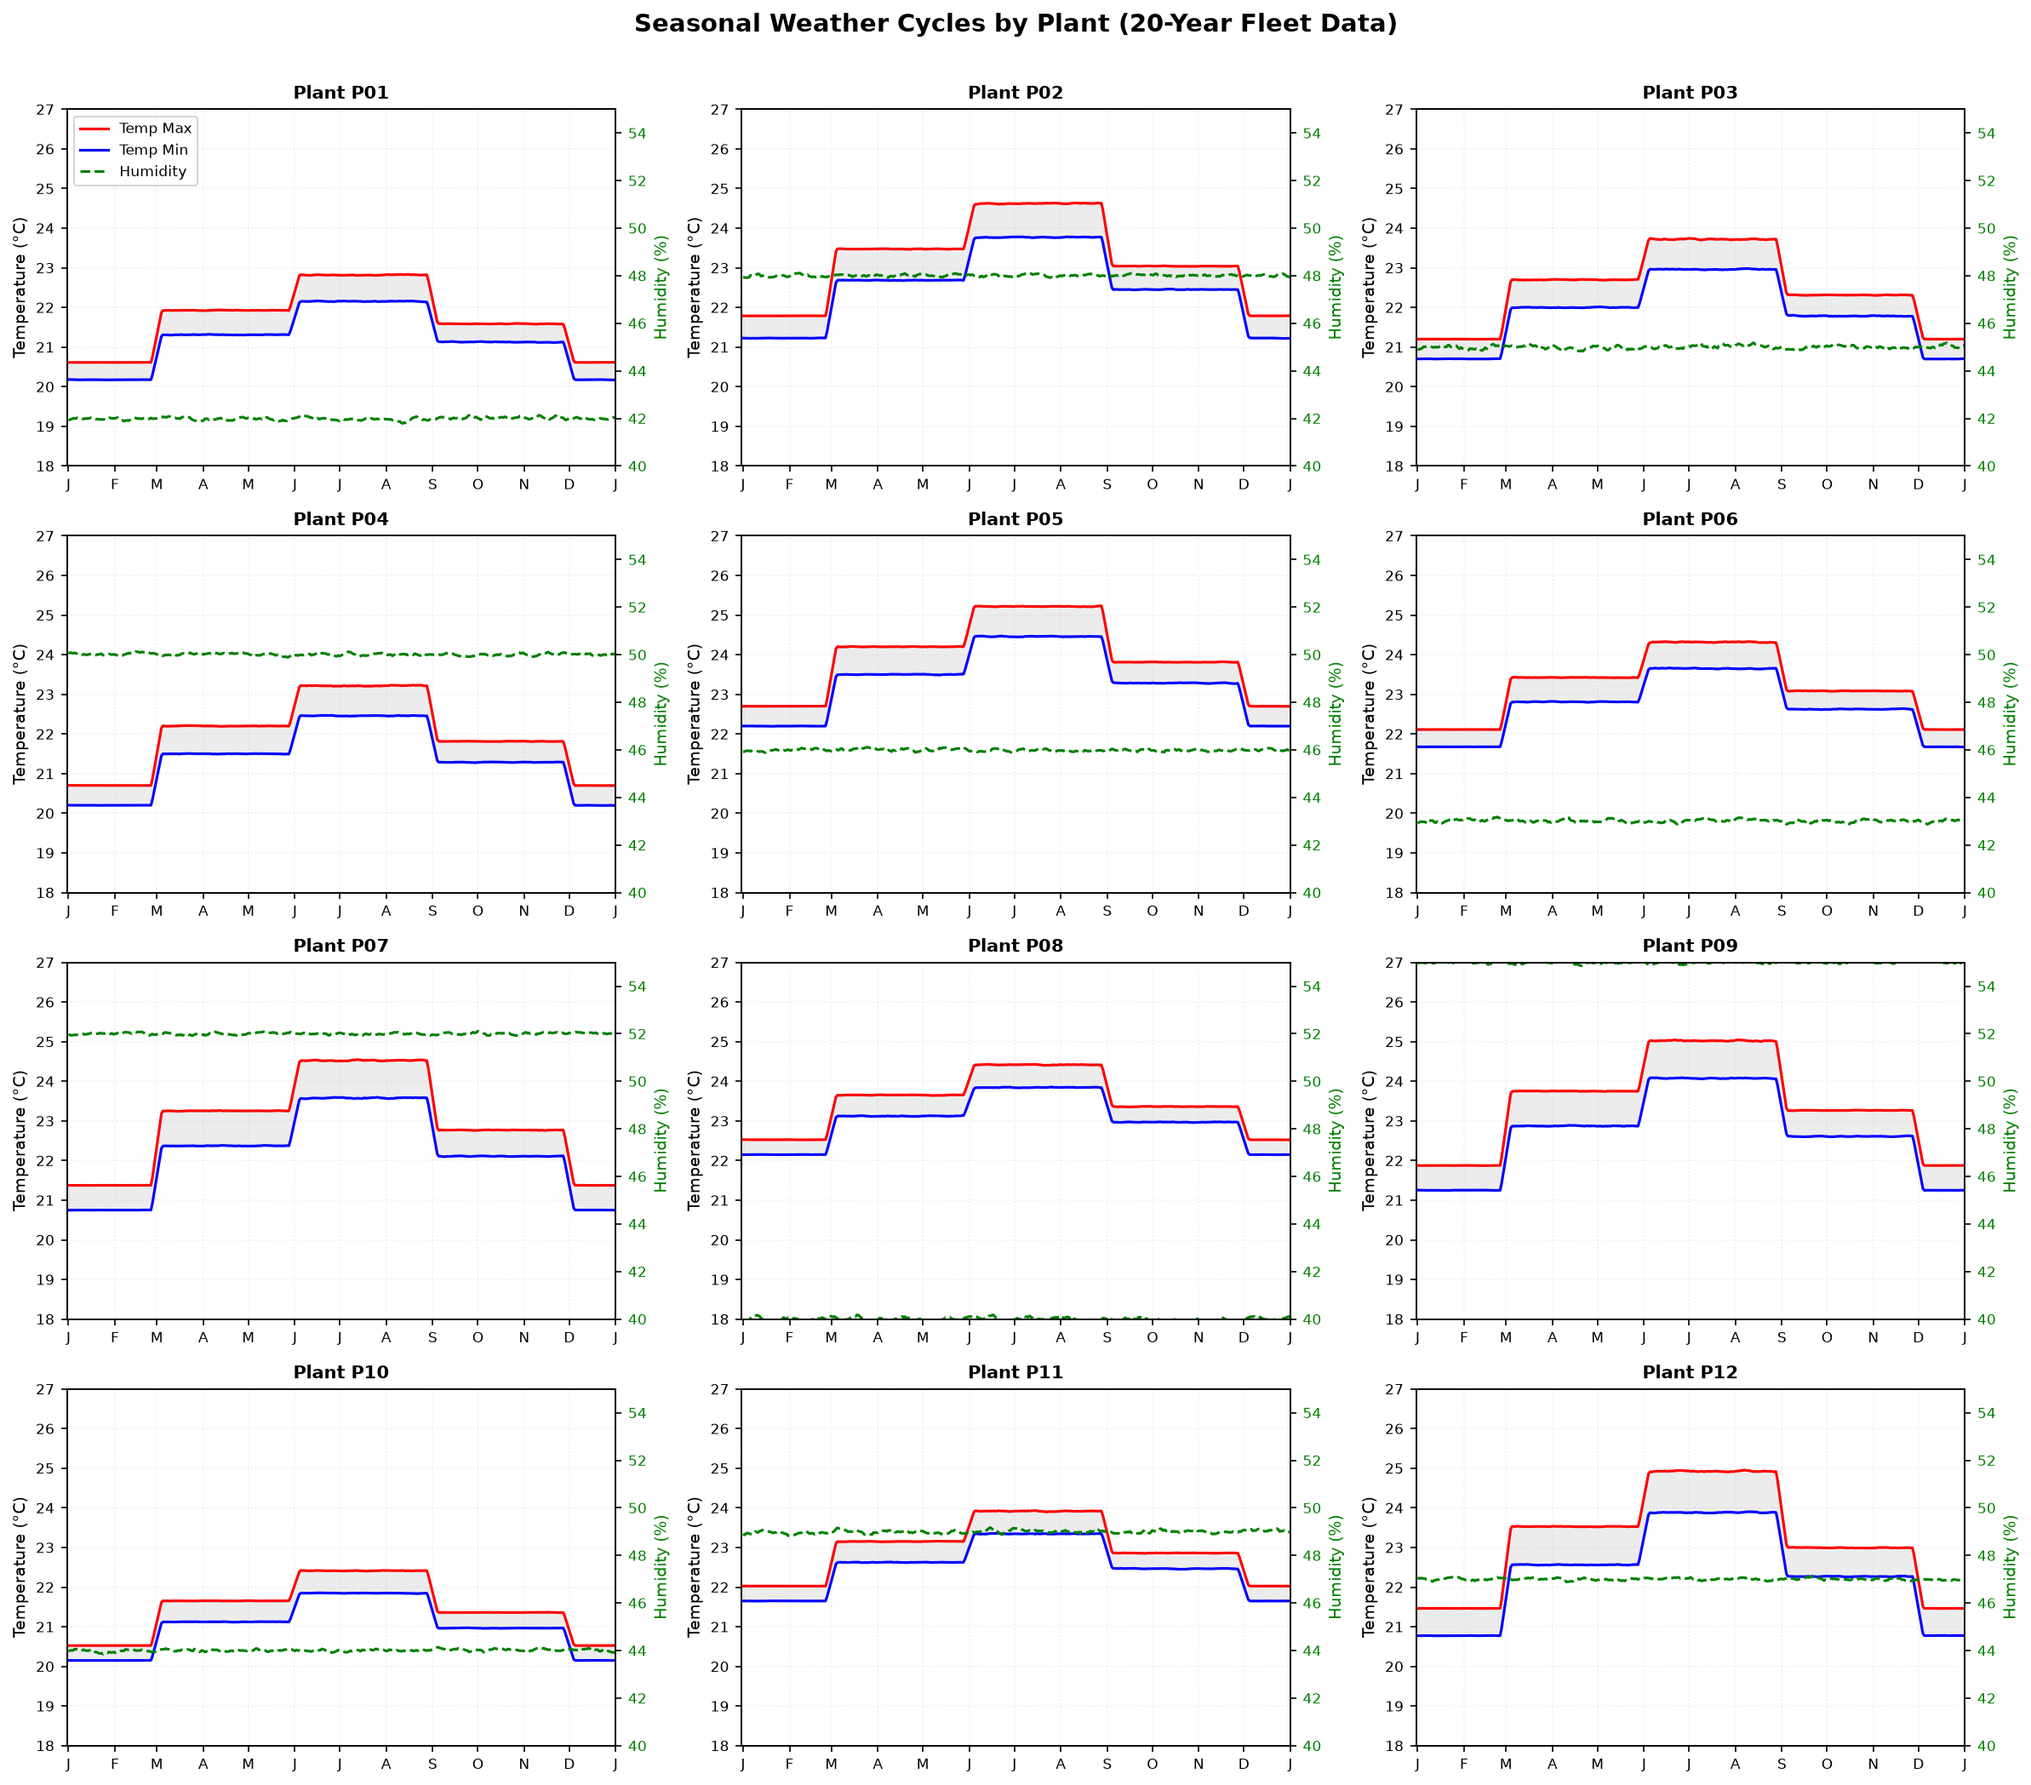
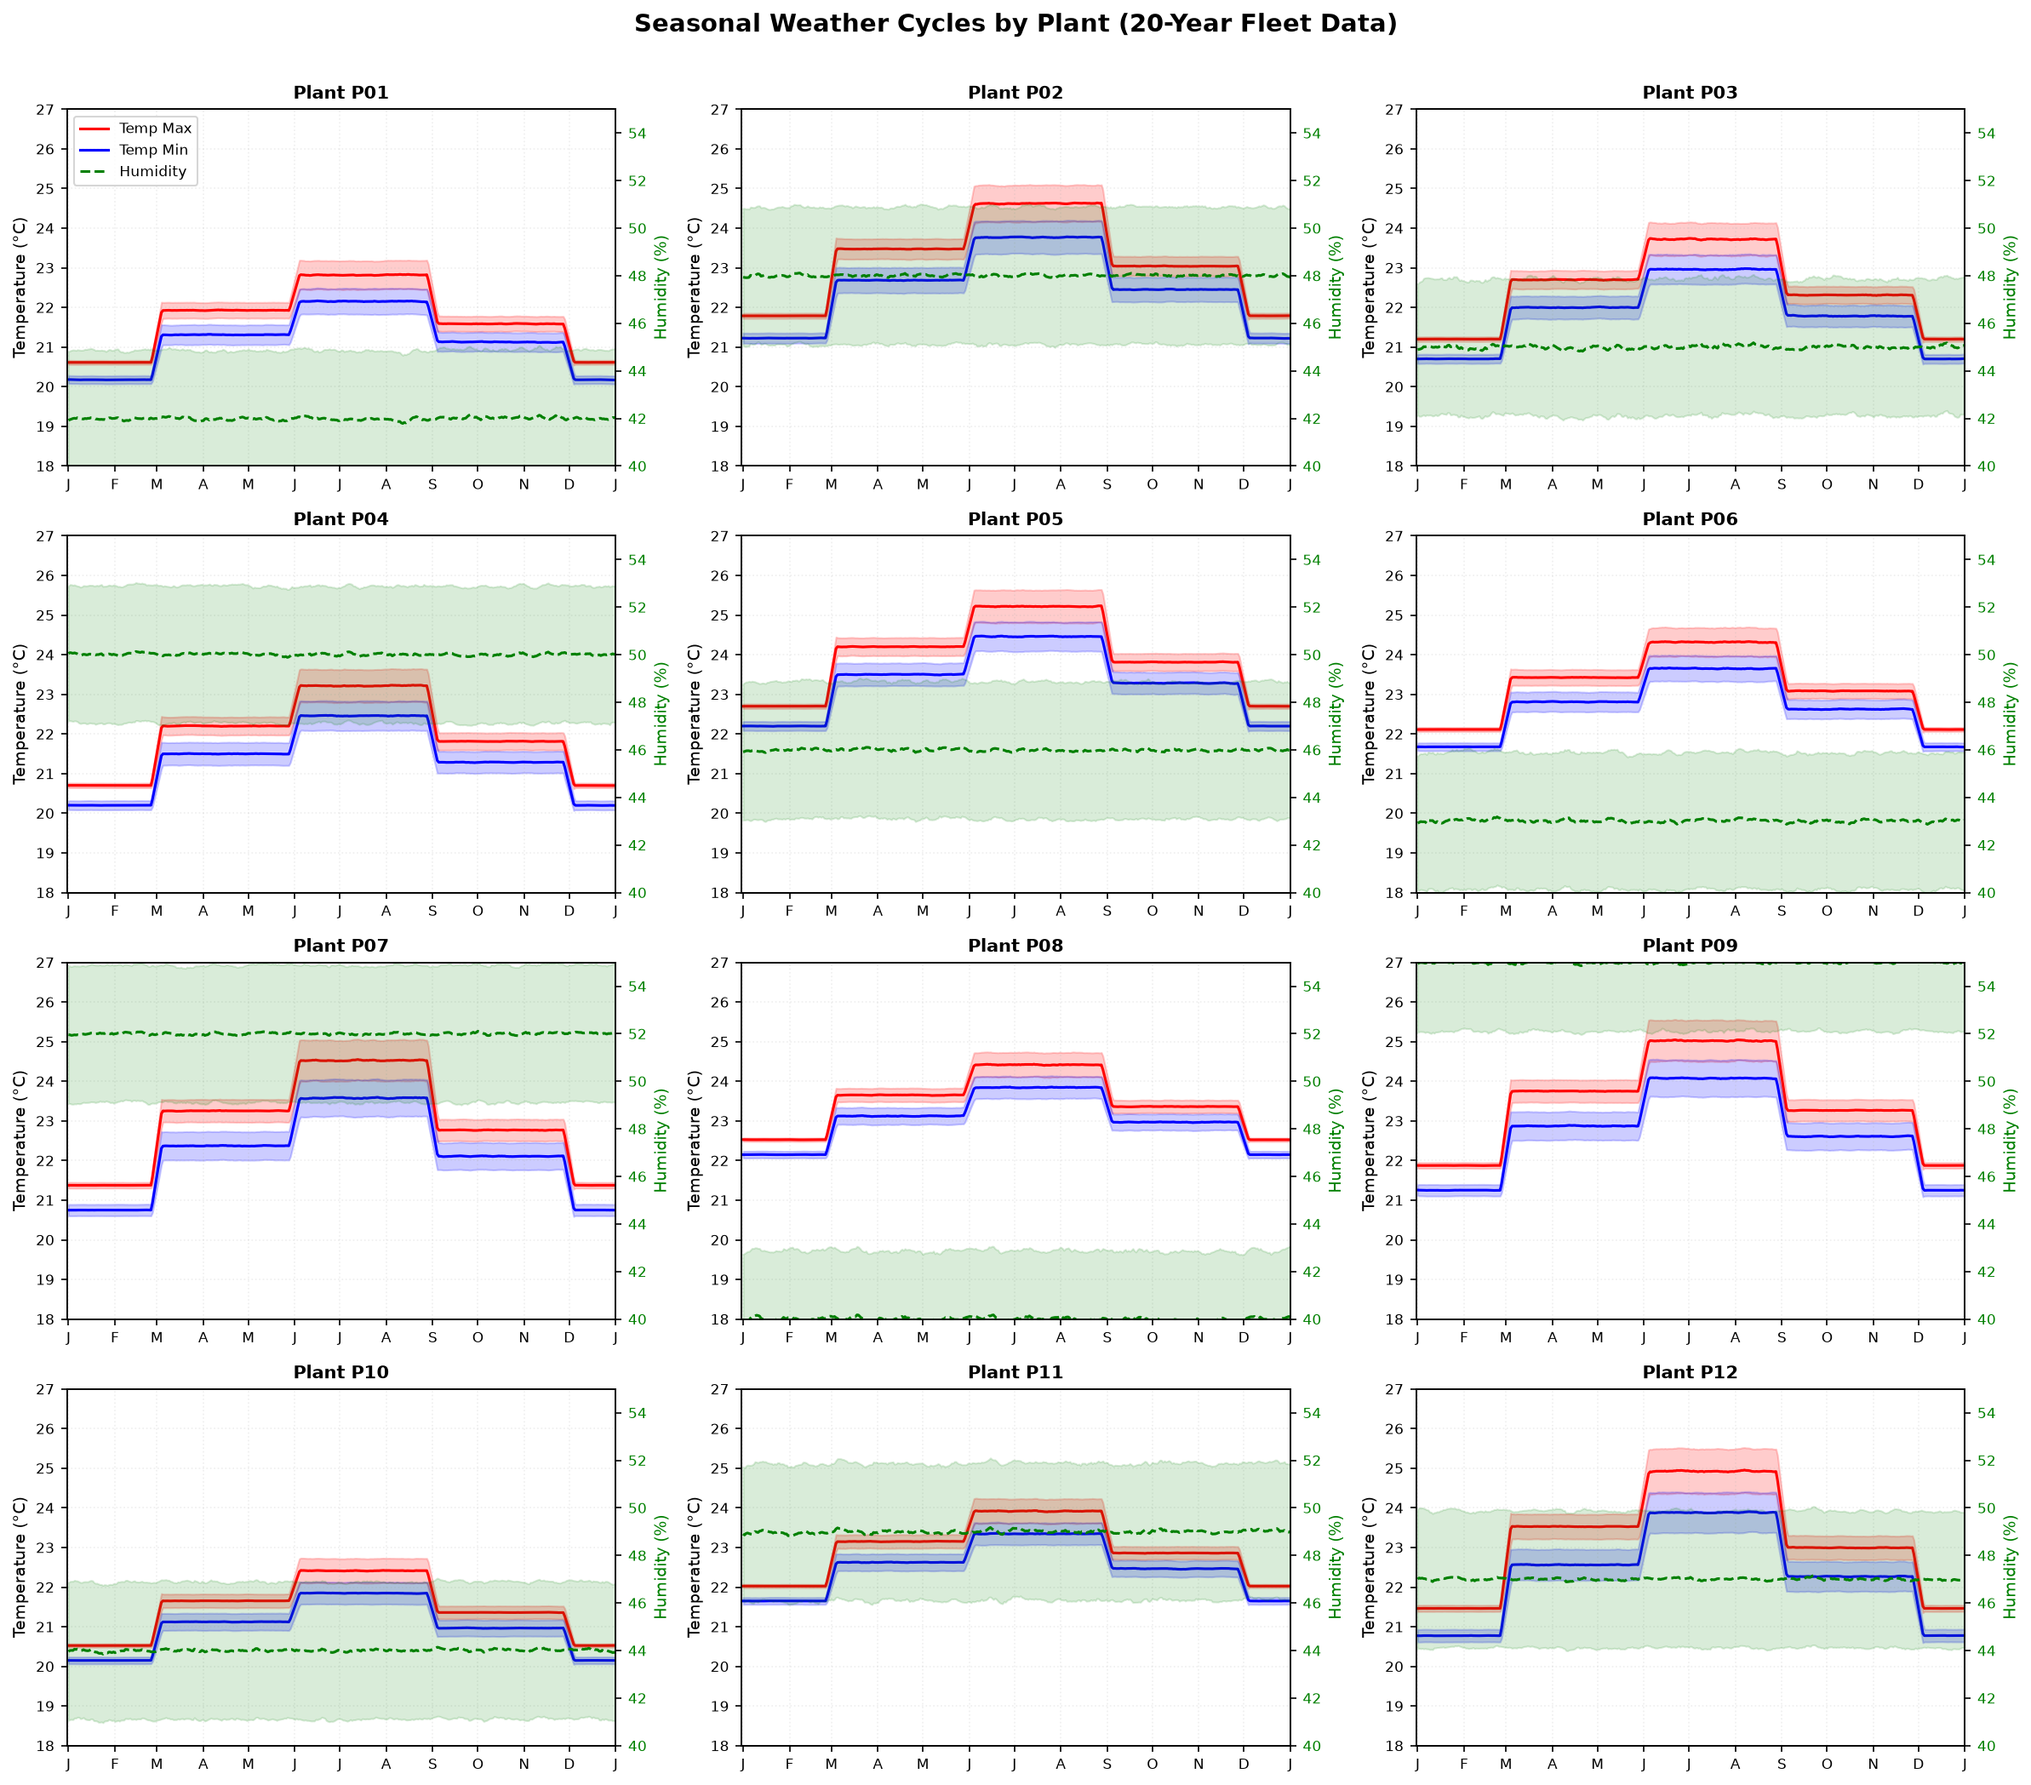
Add standard deviation bands to per-plant weather plots
Updated plots to show ±1σ variability bands around mean temperature
and humidity for each plant, revealing year-to-year consistency.
Key findings: temperature has tight, predictable seasonal patterns
(especially P02, P05, P11), while humidity shows minimal variability.
Supports Requirement 1 by showing temperature is a reliable operating
environment covariate for component reliability modeling.

diff --git a/analysis/plot_weather_seasonality_by_plant.py b/analysis/plot_weather_seasonality_by_plant.py
@@ -30,8 +30,11 @@ for plant_id in plants:
     SELECT
       date_part('doy', Date)::INTEGER as doy,
       avg(Temperature_Max_C) as temp_max,
+      stddev_pop(Temperature_Max_C) as temp_max_std,
       avg(Temperature_Min_C) as temp_min,
-      avg(Humidity_pct) as humidity
+      stddev_pop(Temperature_Min_C) as temp_min_std,
+      avg(Humidity_pct) as humidity,
+      stddev_pop(Humidity_pct) as humidity_std
     FROM read_parquet('{fleet_parquet}')
     WHERE Plant_ID = '{plant_id}'
       AND Temperature_Max_C IS NOT NULL
@@ -45,8 +48,11 @@ for plant_id in plants:
     plant_data[plant_id] = {
         'doy': [r[0] for r in rows],
         'temp_max': [r[1] for r in rows],
-        'temp_min': [r[2] for r in rows],
-        'humidity': [r[3] for r in rows],
+        'temp_max_std': [r[2] or 0 for r in rows],
+        'temp_min': [r[3] for r in rows],
+        'temp_min_std': [r[4] or 0 for r in rows],
+        'humidity': [r[5] for r in rows],
+        'humidity_std': [r[6] or 0 for r in rows],
     }
 
 # Apply 7-day rolling mean
@@ -60,8 +66,11 @@ def rolling_mean(arr, window=7):
 
 for plant_id in plants:
     plant_data[plant_id]['temp_max_smooth'] = rolling_mean(plant_data[plant_id]['temp_max'])
+    plant_data[plant_id]['temp_max_std_smooth'] = rolling_mean(plant_data[plant_id]['temp_max_std'])
     plant_data[plant_id]['temp_min_smooth'] = rolling_mean(plant_data[plant_id]['temp_min'])
+    plant_data[plant_id]['temp_min_std_smooth'] = rolling_mean(plant_data[plant_id]['temp_min_std'])
     plant_data[plant_id]['humidity_smooth'] = rolling_mean(plant_data[plant_id]['humidity'])
+    plant_data[plant_id]['humidity_std_smooth'] = rolling_mean(plant_data[plant_id]['humidity_std'])
 
 # Create 4x3 grid
 fig, axes = plt.subplots(4, 3, figsize=(16, 14))
@@ -77,16 +86,29 @@ for idx, plant_id in enumerate(plants):
 
     # Temperature on left y-axis
     ax_temp = ax
+
+    # Temp Max with ±1σ band
+    temp_max_upper = [m + s for m, s in zip(plant_data[plant_id]['temp_max_smooth'], plant_data[plant_id]['temp_max_std_smooth'])]
+    temp_max_lower = [m - s for m, s in zip(plant_data[plant_id]['temp_max_smooth'], plant_data[plant_id]['temp_max_std_smooth'])]
+    ax_temp.fill_between(doy, temp_max_lower, temp_max_upper, alpha=0.2, color='red')
     ax_temp.plot(doy, plant_data[plant_id]['temp_max_smooth'], color='red', linewidth=1.5, label='Temp Max')
+
+    # Temp Min with ±1σ band
+    temp_min_upper = [m + s for m, s in zip(plant_data[plant_id]['temp_min_smooth'], plant_data[plant_id]['temp_min_std_smooth'])]
+    temp_min_lower = [m - s for m, s in zip(plant_data[plant_id]['temp_min_smooth'], plant_data[plant_id]['temp_min_std_smooth'])]
+    ax_temp.fill_between(doy, temp_min_lower, temp_min_upper, alpha=0.2, color='blue')
     ax_temp.plot(doy, plant_data[plant_id]['temp_min_smooth'], color='blue', linewidth=1.5, label='Temp Min')
-    ax_temp.fill_between(doy, plant_data[plant_id]['temp_min_smooth'], plant_data[plant_id]['temp_max_smooth'],
-                         alpha=0.15, color='gray')
     ax_temp.set_ylabel('Temperature (°C)', fontsize=9, color='black')
     ax_temp.tick_params(axis='y', labelcolor='black', labelsize=8)
     ax_temp.set_ylim(18, 27)
 
     # Humidity on right y-axis
     ax_humid = ax_temp.twinx()
+
+    # Humidity with ±1σ band
+    humidity_upper = [m + s for m, s in zip(plant_data[plant_id]['humidity_smooth'], plant_data[plant_id]['humidity_std_smooth'])]
+    humidity_lower = [m - s for m, s in zip(plant_data[plant_id]['humidity_smooth'], plant_data[plant_id]['humidity_std_smooth'])]
+    ax_humid.fill_between(doy, humidity_lower, humidity_upper, alpha=0.15, color='green')
     ax_humid.plot(doy, plant_data[plant_id]['humidity_smooth'], color='green', linewidth=1.5,
                   linestyle='--', label='Humidity')
     ax_humid.set_ylabel('Humidity (%)', fontsize=9, color='green')
